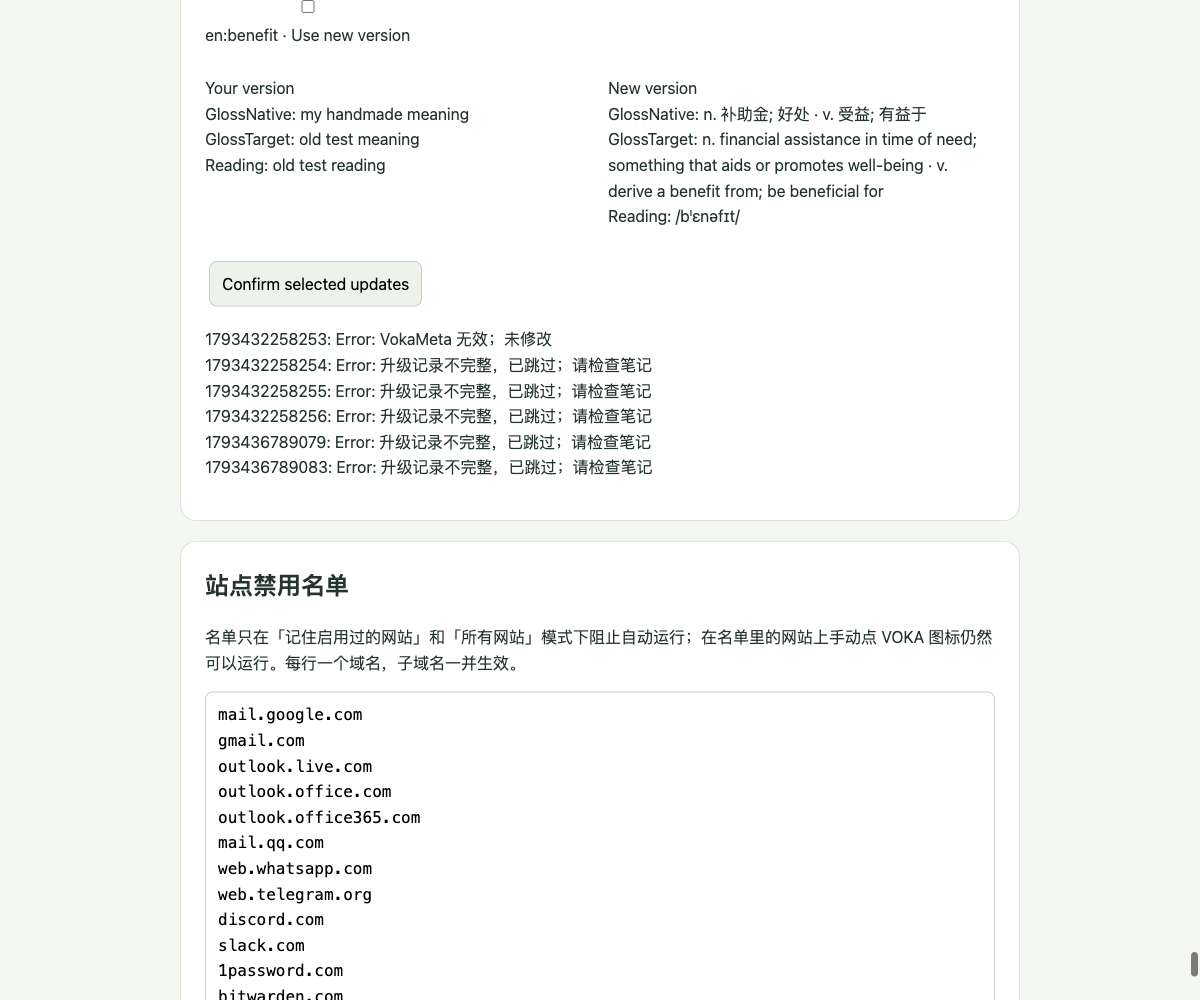
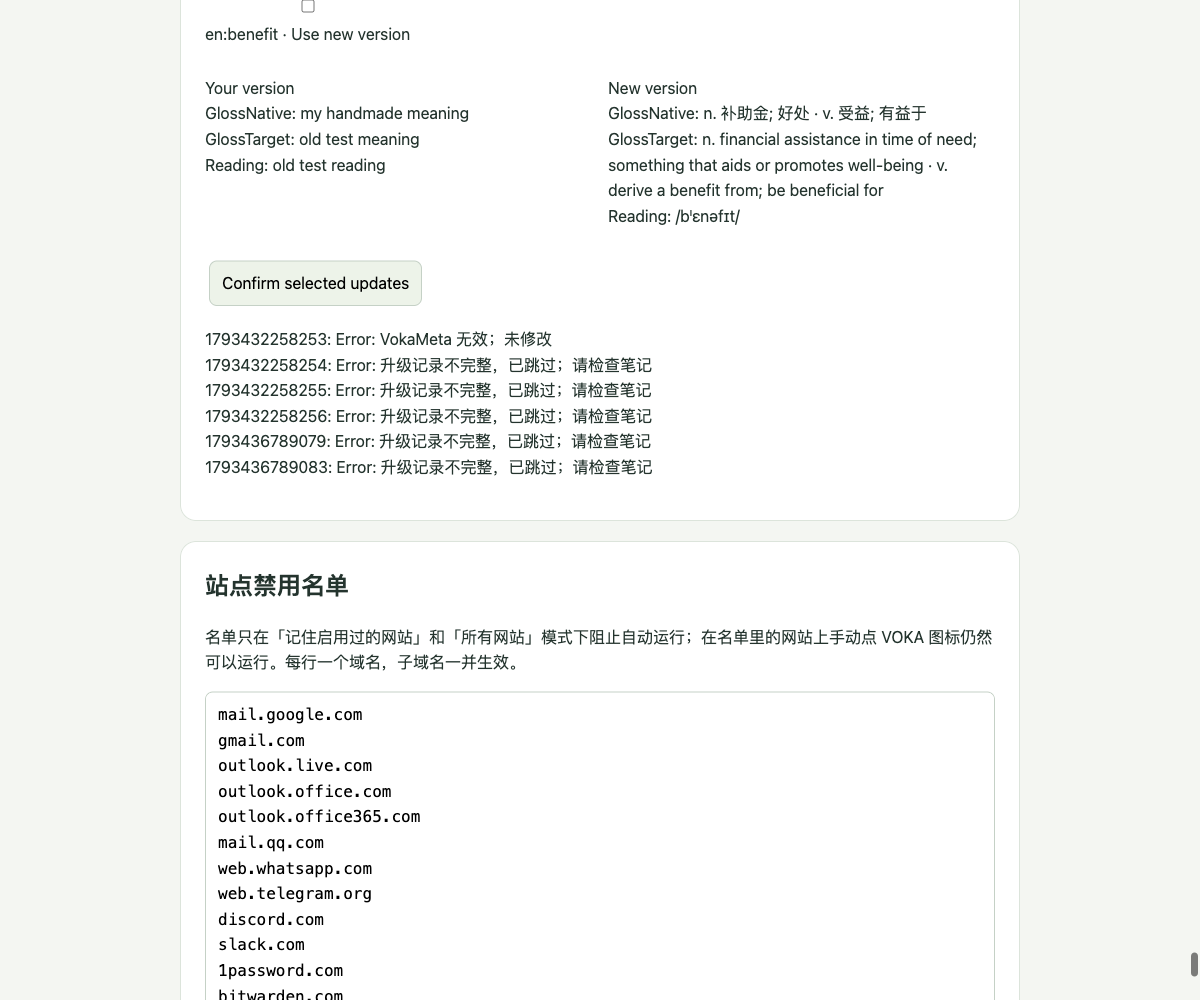
Remember kept gloss upgrades locally per data version (#61)

diff --git a/scripts/check-gloss-upgrade.ts b/scripts/check-gloss-upgrade.ts
@@ -213,6 +213,30 @@ try {
       ?.scrollIntoView();
   }, ids);
   await page.screenshot({ path: `${evidence}/edited-default-keep.png` });
+  const reading = await browser.newPage();
+  await reading.goto(base);
+  const tabId = await worker.evaluate(
+    async (base) =>
+      (await chrome.tabs.query({})).find((t) => t.url?.startsWith(base))!.id!,
+    base,
+  );
+  await worker.evaluate(
+    (id) =>
+      chrome.scripting.executeScript({
+        target: { tabId: id },
+        files: ["content.js"],
+      }),
+    tabId,
+  );
+  await reading.waitForFunction(
+    () => {
+      const root = document.querySelector("#voka-drawer")?.shadowRoot;
+      const link = root?.querySelector<HTMLAnchorElement>('a[target="_blank"]');
+      return link && !link.hidden;
+    },
+    { timeout: 120000, polling: 100 },
+  );
+  await reading.screenshot({ path: `${evidence}/drawer-notice.png` });
   await page.$eval("#confirmUpgrade", (e: HTMLElement) => e.click());
   await page.waitForFunction(
     () =>
@@ -261,7 +285,19 @@ try {
     before.notes.find((n) => n.id === ids[1]),
     "kept edited note untouched",
   );
+  await reading.waitForFunction(() => {
+    const link = document.querySelector("#voka-drawer")?.shadowRoot?.querySelector<HTMLAnchorElement>('a[target="_blank"]');
+    return link?.hidden;
+  }, { timeout: 120000, polling: 100 });
   await page.$eval("#checkUpgrade", (e: HTMLElement) => e.click());
+  await page.waitForFunction(() => !!document.querySelector<HTMLButtonElement>("#confirmUpgrade")?.disabled,
+    { timeout: 120000, polling: 100 });
+  for (const id of ids) assert.equal(await page.$(`input[data-id="${id}"]`), null);
+  await page.waitForFunction(() => document.querySelector("#importUpgrade")?.textContent === "",
+    { timeout: 120000, polling: 100 });
+  const kept = await worker.evaluate(async () => (await chrome.storage.local.get("upgradeKept")).upgradeKept);
+  assert.equal(kept[ids[1]], DATA_VERSION);
+  await page.$eval("#resetUpgradeKept", (e: HTMLElement) => e.click());
   await page.waitForFunction(
     (id) => !!document.querySelector(`#upgradePreview input[data-id="${id}"]`),
     { timeout: 120000, polling: 100 },
@@ -297,30 +333,6 @@ try {
   );
   for (const id of ids)
     assert.equal(await page.$(`input[data-id="${id}"]`), null);
-  const reading = await browser.newPage();
-  await reading.goto(base);
-  const tabId = await worker.evaluate(
-    async (base) =>
-      (await chrome.tabs.query({})).find((t) => t.url?.startsWith(base))!.id!,
-    base,
-  );
-  await worker.evaluate(
-    (id) =>
-      chrome.scripting.executeScript({
-        target: { tabId: id },
-        files: ["content.js"],
-      }),
-    tabId,
-  );
-  await reading.waitForFunction(
-    () => {
-      const root = document.querySelector("#voka-drawer")?.shadowRoot;
-      const link = root?.querySelector<HTMLAnchorElement>('a[target="_blank"]');
-      return link && !link.hidden;
-    },
-    { timeout: 120000, polling: 100 },
-  );
-  await reading.screenshot({ path: `${evidence}/drawer-notice.png` });
   await writeFile(
     `${evidence}/result.json`,
     JSON.stringify(
@@ -334,7 +346,9 @@ try {
         verified: [
           "preview read only entire collection",
           "two groups/defaults",
-          "kept note untouched",
+          "kept note byte-for-byte untouched including modification time",
+          "confirmed keeps excluded from fresh preview, import-preview count, and drawer notice",
+          "settings reset restores kept updates",
           "selected updates only",
           "metadata pin/extra/hash preservation",
           "all card scheduling unchanged",

diff --git a/src/background/upgrade.test.ts b/src/background/upgrade.test.ts
@@ -1,7 +1,16 @@
-import { describe, it, expect } from "vitest";
+import { describe, it, expect, beforeEach, vi } from "vitest";
 import { executeUpgrade, previewUpgrade, generatedFields } from "./upgrade";
 import { vokaMeta, contentHash } from "./import";
 import { DATA_VERSION, type Entry } from "../data";
+import { clearUpgradeKept, readUpgradeKept } from "../upgrade-kept";
+let local: Record<string, any>;
+beforeEach(() => {
+  local = {};
+  vi.stubGlobal("chrome", { storage: { local: {
+    get: async (defaults: object) => ({ ...defaults, ...structuredClone(local) }),
+    set: async (values: object) => { Object.assign(local, structuredClone(values)); },
+  } } });
+});
 const old: Entry = {
   lemma: "test",
   level: "B1",
@@ -117,8 +126,11 @@ describe("gloss upgrades", () => {
       );
     expect(rest(f.notes[0])).toEqual(rest(snapshot[0]));
     const rerun = await previewUpgrade(f.call, "zh", () => next);
-    expect(rerun.rows.map((r) => r.id)).toEqual(["1"]);
-    await executeUpgrade(f.call, rerun, ["1"]);
+    expect(rerun.rows).toEqual([]);
+    await clearUpgradeKept();
+    const restored = await previewUpgrade(f.call, "zh", () => next);
+    expect(restored.rows.map((r) => r.id)).toEqual(["1"]);
+    await executeUpgrade(f.call, restored, ["1"]);
     expect((await previewUpgrade(f.call, "zh", () => next)).rows).toHaveLength(
       0,
     );
@@ -160,4 +172,30 @@ describe("gloss upgrades", () => {
     expect(p.rows).toHaveLength(1);
     expect(p.rows[0].next.GlossNative).toBe("");
   });
+});
+
+it("records keeps only on confirmation, excludes the same version even after edits, and clears", async () => {
+  const f = await fixture();
+  f.notes[1].fields.GlossNative = "my meaning";
+  const p = await previewUpgrade(f.call, "zh", () => next);
+  expect(await readUpgradeKept()).toEqual({}); // Cancel/abandon preview records nothing.
+  const snapshot = structuredClone(f.notes);
+  await executeUpgrade(f.call, p, []);
+  expect(await readUpgradeKept()).toEqual({ "0": DATA_VERSION, "1": DATA_VERSION });
+  expect(f.notes).toEqual(snapshot);
+  expect(f.writes).toEqual([]);
+  f.notes[1].fields.GlossNative = "edited again";
+  expect((await previewUpgrade(f.call, "zh", () => next)).rows).toEqual([]);
+  await clearUpgradeKept();
+  expect(await readUpgradeKept()).toEqual({});
+  expect((await previewUpgrade(f.call, "zh", () => next)).rows).toHaveLength(2);
+});
+it("re-prompts older kept versions using the original hashes and prunes missing/nonmatching IDs", async () => {
+  const f = await fixture();
+  f.notes[0].fields.GlossNative = "my meaning";
+  local.upgradeKept = { "0": "previous-version", "1": DATA_VERSION, "999": DATA_VERSION };
+  f.notes[1].tags = [];
+  const p = await previewUpgrade(f.call, "zh", () => next);
+  expect(p.rows.map(r => [r.id, r.edited])).toEqual([["0", true]]);
+  expect(await readUpgradeKept()).toEqual({});
 });

diff --git a/src/background/upgrade.ts b/src/background/upgrade.ts
@@ -1,3 +1,4 @@
+import { readUpgradeKept } from "../upgrade-kept";
 import { DATA_VERSION, loadData, type Entry } from "../data";
 import { contentHash, type Call } from "./import";
 
@@ -44,12 +45,15 @@ function metadata(raw: string) {
     throw new Error("VokaMeta 无效；未修改");
   return meta;
 }
-/** Collection-wide, independent of deck and note-type names. Never writes. */
+/** Collection-wide; never writes to Anki. May prune obsolete local keep decisions. */
 export async function previewUpgrade(
   call: Call,
   nativeLanguage: "zh" | "en" = "zh",
   resolve?: (key: string) => Entry,
 ): Promise<UpgradePreview> {
+  const kept = await readUpgradeKept();
+  const matching = new Set<string>();
+  let complete = true;
   const entry = resolve ?? (await loadData()).lookupEntry;
   const preview: UpgradePreview = {
     version: DATA_VERSION,
@@ -70,10 +74,15 @@ export async function previewUpgrade(
       for (const item of batch.items) {
         const note = item.result;
         try {
-          if (item.error || !note) throw new Error(JSON.stringify(item.error));
+          if (item.error || !note) {
+            complete = false;
+            throw new Error(JSON.stringify(item.error));
+          }
           const fields = note.fields;
           if (!fields.Key?.startsWith("en:") || !note.tags?.includes("voka"))
             continue;
+          matching.add(note.id);
+          if (kept[note.id] === DATA_VERSION) continue;
           const meta = metadata(fields.VokaMeta);
           if (meta.data === DATA_VERSION) continue;
           if (!generatedFields.every((f) => typeof fields[f] === "string"))
@@ -110,6 +119,12 @@ export async function previewUpgrade(
     }
     cursor = page.nextCursor ?? undefined;
   } while (cursor);
+  // Only prune after a complete scan; failed reads must not erase decisions.
+  const pruned = Object.fromEntries(Object.entries(kept).filter(([id, version]) =>
+    version === DATA_VERSION && (!complete || matching.has(id)),
+  ));
+  if (JSON.stringify(pruned) !== JSON.stringify(kept))
+    await chrome.storage.local.set({ upgradeKept: pruned });
   return preview;
 }
 export type UpgradeResult = {
@@ -132,6 +147,10 @@ export async function executeUpgrade(
   if (preview.version !== DATA_VERSION)
     throw new Error("数据包已变更，请重新预览");
   const selectedIds = new Set(selected);
+  const kept = await readUpgradeKept();
+  for (const row of preview.rows)
+    if (!selectedIds.has(row.id)) kept[row.id] = preview.version;
+  await chrome.storage.local.set({ upgradeKept: kept });
   const rows = preview.rows.filter((r) => selectedIds.has(r.id));
   const result: UpgradeResult = {
     results: [],

diff --git a/src/background/index.ts b/src/background/index.ts
@@ -171,8 +171,8 @@ chrome.runtime.onMessage.addListener((message, sender, reply) => {
     (["preview-upgrade", "execute-upgrade"].includes(message?.type) &&
       sender.url?.split("?")[0] === chrome.runtime.getURL("options.html"))
   ) {
-    if (upgradeBusy || importBusy) { reply({ error: "正在处理，请稍后再试" }); return; }
-    upgradeBusy = true;
+    if (message.type !== "upgrade-summary" && (upgradeBusy || importBusy)) { reply({ error: "正在处理，请稍后再试" }); return; }
+    if (message.type !== "upgrade-summary") upgradeBusy = true;
     const work = async () => {
       const config = await settings();
       if ((await checked(config)) !== "ok") throw new Error("unreachable");
@@ -199,7 +199,7 @@ chrome.runtime.onMessage.addListener((message, sender, reply) => {
     // Context saves and upgrades share VokaMeta; serialize their fresh-read/merge/write.
     contextQueue = contextQueue.catch(() => {}).then(async () => {
       try { reply({ data: await work() }); } catch (error) { reply({ error: String(error) }); }
-      finally { upgradeBusy = false; }
+      finally { if (message.type !== "upgrade-summary") upgradeBusy = false; }
     });
   } else if (
     ["preview-import", "execute-import", "cancel-import"].includes(

diff --git a/src/options.ts b/src/options.ts
@@ -1,3 +1,4 @@
+import { readUpgradeKept, clearUpgradeKept } from "./upgrade-kept";
 import { settings, check, t } from "./shared";
 import { mountUpgrade } from "./upgrade-ui";
 import { LEVELS, loadData, type Level } from "./data";
@@ -653,3 +654,22 @@ if (connected && new URLSearchParams(location.search).has("upgrade")) {
   await upgradeUI.preview();
   $("updates").scrollIntoView();
 }
+
+async function showKeptCount() {
+  const count = Object.keys(await readUpgradeKept()).length;
+  $("upgradeKeptCount").textContent = `已保留 ${count} 张词卡的更新`;
+  ($("resetUpgradeKept") as HTMLButtonElement).disabled = count === 0;
+}
+$("resetUpgradeKept").onclick = async () => {
+  await clearUpgradeKept();
+  await showKeptCount();
+  await upgradeUI.preview();
+  await showUpgradeSummary();
+};
+chrome.storage.onChanged.addListener((changes, area) => {
+  if (area === "local" && changes.upgradeKept) {
+    void showKeptCount();
+    if (connected) void showUpgradeSummary();
+  }
+});
+void showKeptCount();

diff --git a/src/shared.ts b/src/shared.ts
@@ -1,3 +1,4 @@
+import { parseUpgradeKept, type UpgradeKept } from "./upgrade-kept";
 import type { Settings, Status } from "./background/gateway";
 import {
   DEFAULT_DENY_SITES,
@@ -27,9 +28,10 @@ export type SiteSettings = {
   rememberedSites: string[];
 };
 export async function settings(): Promise<
-  Settings & ReadingSettings & SiteSettings & { storeFullUrl: boolean; testImportTarget?: TestImportTarget }
+  Settings & ReadingSettings & SiteSettings & { upgradeKept: UpgradeKept; storeFullUrl: boolean; testImportTarget?: TestImportTarget }
 > {
   const value = await chrome.storage.local.get({
+    upgradeKept: {},
     port: 8765,
     apiKey: "",
     nativeLanguage: "zh",
@@ -44,6 +46,7 @@ export async function settings(): Promise<
     rememberedSites: [],
   });
   return {
+    upgradeKept: parseUpgradeKept(value.upgradeKept),
     port:
       typeof value.port === "number" &&
       Number.isInteger(value.port) &&

diff --git a/src/upgrade-kept.ts b/src/upgrade-kept.ts
@@ -1,0 +1,14 @@
+/** Local decisions only: never copied to Anki or synced. */
+export type UpgradeKept = Record<string, string>;
+export function parseUpgradeKept(value: unknown): UpgradeKept {
+  if (!value || typeof value !== "object" || Array.isArray(value)) return {};
+  return Object.fromEntries(Object.entries(value).filter(([id, version]) =>
+    /^\d+$/.test(id) && typeof version === "string" && version.length > 0 && version.length <= 100,
+  )) as UpgradeKept;
+}
+export async function readUpgradeKept(): Promise<UpgradeKept> {
+  return parseUpgradeKept((await chrome.storage.local.get({ upgradeKept: {} })).upgradeKept);
+}
+export async function clearUpgradeKept() {
+  await chrome.storage.local.set({ upgradeKept: {} });
+}

diff --git a/options.html b/options.html
@@ -128,6 +128,8 @@
       </fieldset>
       <fieldset id="updates" disabled>
         <h2>释义数据更新</h2>
+        <p id="upgradeKeptCount"></p>
+        <button id="resetUpgradeKept" type="button">重新显示已保留的更新</button>
         <button id="checkUpgrade" type="button">检查释义数据更新</button>
         <div id="upgradePreview"></div>
         <pre id="upgradeStatus" role="status"></pre>

diff --git a/docs/research/upgrade-keep-memory-acceptance.md b/docs/research/upgrade-keep-memory-acceptance.md
@@ -1,0 +1,15 @@
+# Remember kept gloss upgrades (#60)
+
+Maintainer option B is implemented: `chrome.storage.local.upgradeKept` maps note IDs to the preview data version. Only confirmation adds records, for every unchecked preview row. Abandoning a preview records no decisions. Kept rows cause no Anki writes and no sync calls. Preview, drawer summaries, and import-preview counts use the same exclusion.
+
+Decisions apply to the whole data version, including if the user subsequently changes generated fields. A later data version re-prompts and classifies edits against the unchanged Anki hashes. Device changes and extension reinstall can re-prompt. Settings displays the local kept-note count and “重新显示已保留的更新” clears all decisions and refreshes the preview. Scans prune old versions and missing/nonmatching note IDs; failed note reads preserve current-version records conservatively.
+
+Summary requests queue behind confirmation so storage-triggered content refreshes observe the completed decisions rather than losing the drawer refresh to a busy response. Settings also refreshes an already displayed import count when decisions change.
+
+## Validation
+
+- `npm run build && npm test`: 17 test files, 136 tests pass. Tests cover confirmation, preview abandonment/cancel, no Anki writes for all-kept confirmation, same-version exclusion after further edits, older-version reappearance with edited classification, reset, and pruning.
+- `npm run check:gloss-upgrade`: Chrome for Testing with isolated **127.0.0.1:8766**. T-29 imports two named fixture notes, edits one, previews both groups, and confirms only the unedited note. The entire kept note including its modification timestamp is byte-for-byte unchanged; every card and unrelated note also remains unchanged. A fresh preview excludes the kept note, drawer notice disappears, and Settings reset brings it back. Latest fixture IDs and evidence are in [result.json](gloss-upgrade-evidence/result.json).
+- No sync, deletion, scheduling, card moves, or note-type structure edits are called. Named test fixtures remain in the isolated collection.
+
+Not verified: real device/reinstall migration, AnkiMobile/AnkiDroid, sync transport, live transport interruption/partial failure, or external Anki edits during an in-flight patch. Deterministic tests cover write failures and uncertain responses. The pre-existing lack of an atomic conditional-write API remains unchanged.
